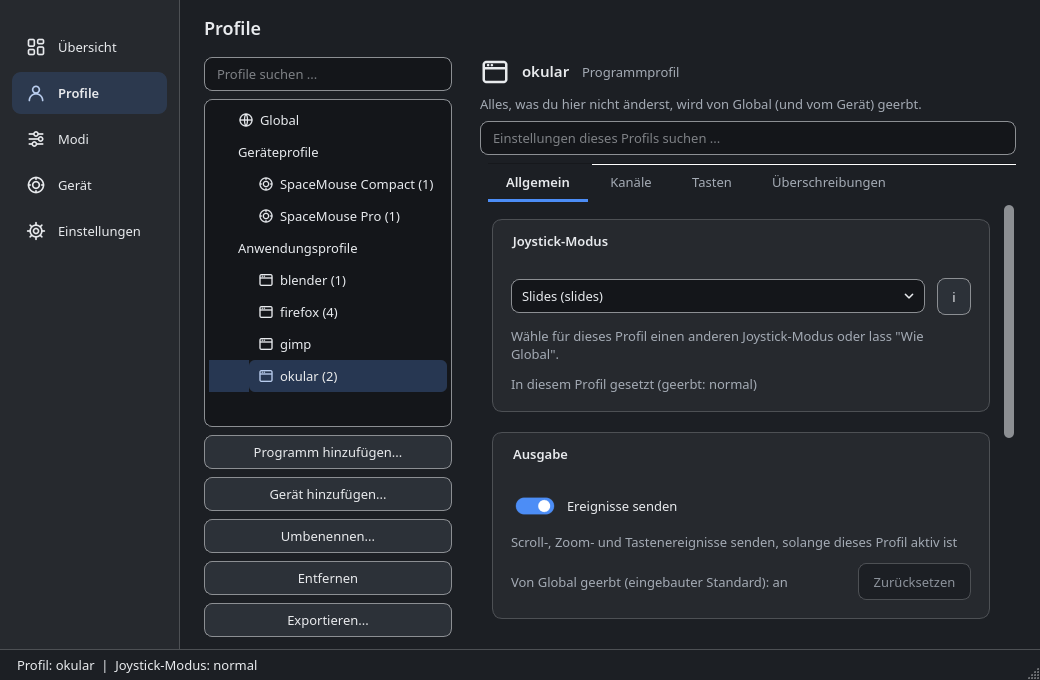
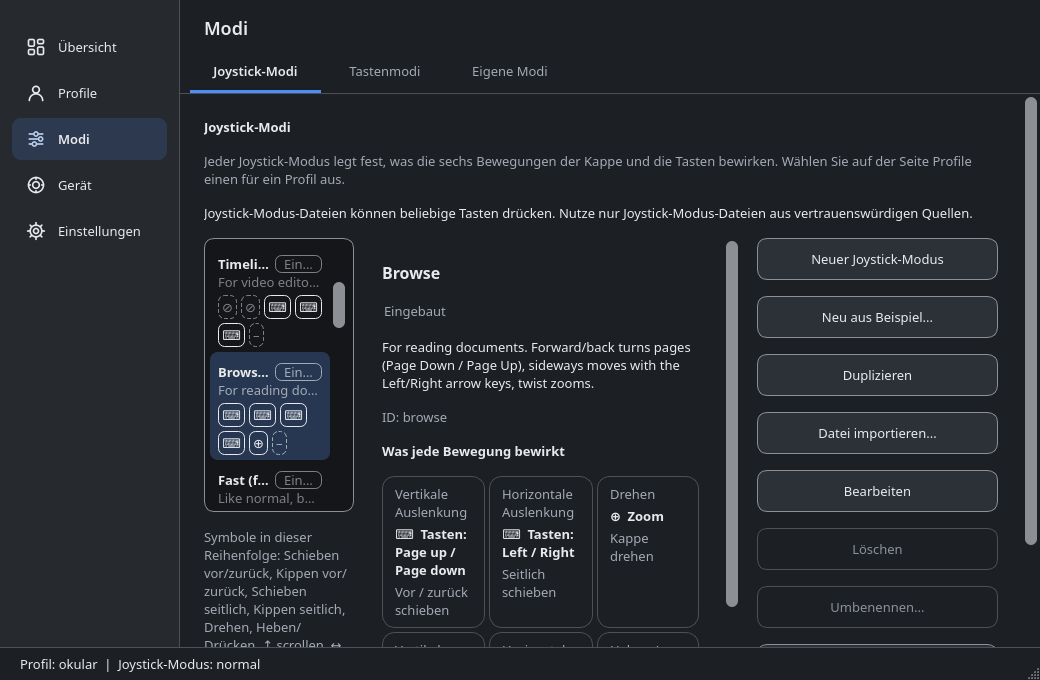
Release 1.1.2: version, release notes, new website screenshots (the Joystick modes page is the main picture), compact symbol chips in the mode list

diff --git a/site/de/index.html b/site/de/index.html
@@ -31,7 +31,7 @@
 <link rel="icon" type="image/png" sizes="32x32" href="../favicon-32.png">
 <link rel="apple-touch-icon" href="../apple-touch-icon.png">
 <link rel="stylesheet" href="../style.css">
-<script type="application/ld+json">{"@context": "https://schema.org", "@type": "SoftwareApplication", "name": "dofscroll", "description": "Nutze eine 3Dconnexion SpaceMouse als Scrollrad und Zoomregler in jedem Programm: Browser, PDF-Reader, Karten. Frei und quelloffen für Linux, Windows und macOS.", "url": "https://hoze-lukas.github.io/dofScroll/de/", "inLanguage": "de", "operatingSystem": "Linux, Windows, macOS", "applicationCategory": "UtilitiesApplication", "license": "https://www.gnu.org/licenses/gpl-3.0.html", "softwareVersion": "1.1.1", "downloadUrl": "https://github.com/HoZe-Lukas/dofScroll/releases/latest", "screenshot": "https://hoze-lukas.github.io/dofScroll/img/de/ui-window-light.png", "image": "https://hoze-lukas.github.io/dofScroll/img/og-de.png", "offers": {"@type": "Offer", "price": "0", "priceCurrency": "EUR"}}</script>
+<script type="application/ld+json">{"@context": "https://schema.org", "@type": "SoftwareApplication", "name": "dofscroll", "description": "Nutze eine 3Dconnexion SpaceMouse als Scrollrad und Zoomregler in jedem Programm: Browser, PDF-Reader, Karten. Frei und quelloffen für Linux, Windows und macOS.", "url": "https://hoze-lukas.github.io/dofScroll/de/", "inLanguage": "de", "operatingSystem": "Linux, Windows, macOS", "applicationCategory": "UtilitiesApplication", "license": "https://www.gnu.org/licenses/gpl-3.0.html", "softwareVersion": "1.1.2", "downloadUrl": "https://github.com/HoZe-Lukas/dofScroll/releases/latest", "screenshot": "https://hoze-lukas.github.io/dofScroll/img/de/ui-window-light.png", "image": "https://hoze-lukas.github.io/dofScroll/img/og-de.png", "offers": {"@type": "Offer", "price": "0", "priceCurrency": "EUR"}}</script>
 </head>
 <body>
 <a class="skip" href="#main">Zum Inhalt springen</a>
@@ -65,7 +65,7 @@
 <p class="note">Getestet unter RHEL 9, noch nicht unter Windows und macOS: <a href="#status">zum Stand</a>.</p>
 </div>
 <div class="hero-visual"><div class="stack">
-<img class="shot-light main" src="../img/de/ui-window-light.png" width="1040" height="680" alt="Das dofscroll-Einstellungsfenster: der Profil-Editor für okular mit dem Joystick-Modus Slides, links die Programmprofile"><img class="shot-dark main" src="../img/de/ui-window-dark.png" width="1040" height="680" alt="Das dofscroll-Einstellungsfenster: der Profil-Editor für okular mit dem Joystick-Modus Slides, links die Programmprofile">
+<img class="shot-light main" src="../img/de/ui-window-light.png" width="1040" height="680" alt="Das dofscroll-Einstellungsfenster: die Seite Joystick-Modi mit sechs Symbolen je Modus und, für den gewählten, was Schieben, Kippen und Drehen tun"><img class="shot-dark main" src="../img/de/ui-window-dark.png" width="1040" height="680" alt="Das dofscroll-Einstellungsfenster: die Seite Joystick-Modi mit sechs Symbolen je Modus und, für den gewählten, was Schieben, Kippen und Drehen tun">
 <img class="shot-light side" src="../img/de/ui-overview-light.png" width="720" height="470" alt="Die dofscroll-Übersicht: Daemon läuft, Gerät SpaceMouse Pro verbunden"><img class="shot-dark side" src="../img/de/ui-overview-dark.png" width="720" height="470" alt="Die dofscroll-Übersicht: Daemon läuft, Gerät SpaceMouse Pro verbunden">
 </div></div>
 </div>
@@ -90,7 +90,7 @@
 <li class="card"><svg class="ico" viewBox="0 0 24 24" aria-hidden="true" focusable="false"><path d="M12 3v18M7 8l5-5 5 5M7 16l5 5 5-5"/></svg><h3>Überall scrollen und zoomen</h3><p>Browser, PDFs, Dokumente und Karten: schieben zum Scrollen, drehen zum Zoomen.</p></li>
 <li class="card"><svg class="ico" viewBox="0 0 24 24" aria-hidden="true" focusable="false"><rect x="3" y="4" width="18" height="12" rx="2"/><path d="M8 20h8M12 16v4"/></svg><h3>Ein Profil pro Programm</h3><p>Sanftes Scrollen im Browser, Zeitleiste durchspulen im Videoschnitt. Auch pro Gerät.</p></li>
 <li class="card"><svg class="ico" viewBox="0 0 24 24" aria-hidden="true" focusable="false"><circle cx="8" cy="8" r="3"/><circle cx="16" cy="16" r="3"/><circle cx="16" cy="8" r="3"/><circle cx="8" cy="16" r="3"/></svg><h3>Tasten, die mehr können</h3><p>Modi wechseln, halten oder umschalten, oder eine Kombination wie Strg+0 senden, um den Zoom zurückzusetzen.</p></li>
-<li class="card"><svg class="ico" viewBox="0 0 24 24" aria-hidden="true" focusable="false"><rect x="3" y="3" width="7" height="7" rx="1.5"/><rect x="14" y="3" width="7" height="7" rx="1.5"/><rect x="3" y="14" width="7" height="7" rx="1.5"/><path d="M17.5 14v7M14 17.5h7"/></svg><h3>Fertige Modi</h3><p>Slides, Media, Map, Browse, Sheet, Photo, Timeline, Precision und mehr. Oder schreib deine eigenen.</p></li>
+<li class="card"><svg class="ico" viewBox="0 0 24 24" aria-hidden="true" focusable="false"><rect x="3" y="3" width="7" height="7" rx="1.5"/><rect x="14" y="3" width="7" height="7" rx="1.5"/><rect x="3" y="14" width="7" height="7" rx="1.5"/><path d="M17.5 14v7M14 17.5h7"/></svg><h3>Fertige Modi</h3><p>Slides, Media, Map, Browse, Sheet, Photo, Timeline, Precision und mehr. Jeder zeigt auf einen Blick, was Schieben, Kippen und Drehen tun. Oder schreib deine eigenen.</p></li>
 </ul>
 </div>
 </section>

diff --git a/site/index.html b/site/index.html
@@ -31,7 +31,7 @@
 <link rel="icon" type="image/png" sizes="32x32" href="favicon-32.png">
 <link rel="apple-touch-icon" href="apple-touch-icon.png">
 <link rel="stylesheet" href="style.css">
-<script type="application/ld+json">{"@context": "https://schema.org", "@type": "SoftwareApplication", "name": "dofscroll", "description": "Use a 3Dconnexion SpaceMouse as a scroll wheel and zoom control in any program: browsers, PDF readers, maps. Free and open source for Linux, Windows and macOS.", "url": "https://hoze-lukas.github.io/dofScroll/", "inLanguage": "en", "operatingSystem": "Linux, Windows, macOS", "applicationCategory": "UtilitiesApplication", "license": "https://www.gnu.org/licenses/gpl-3.0.html", "softwareVersion": "1.1.1", "downloadUrl": "https://github.com/HoZe-Lukas/dofScroll/releases/latest", "screenshot": "https://hoze-lukas.github.io/dofScroll/img/ui-window-light.png", "image": "https://hoze-lukas.github.io/dofScroll/img/og.png", "offers": {"@type": "Offer", "price": "0", "priceCurrency": "EUR"}}</script>
+<script type="application/ld+json">{"@context": "https://schema.org", "@type": "SoftwareApplication", "name": "dofscroll", "description": "Use a 3Dconnexion SpaceMouse as a scroll wheel and zoom control in any program: browsers, PDF readers, maps. Free and open source for Linux, Windows and macOS.", "url": "https://hoze-lukas.github.io/dofScroll/", "inLanguage": "en", "operatingSystem": "Linux, Windows, macOS", "applicationCategory": "UtilitiesApplication", "license": "https://www.gnu.org/licenses/gpl-3.0.html", "softwareVersion": "1.1.2", "downloadUrl": "https://github.com/HoZe-Lukas/dofScroll/releases/latest", "screenshot": "https://hoze-lukas.github.io/dofScroll/img/ui-window-light.png", "image": "https://hoze-lukas.github.io/dofScroll/img/og.png", "offers": {"@type": "Offer", "price": "0", "priceCurrency": "EUR"}}</script>
 </head>
 <body>
 <a class="skip" href="#main">Skip to content</a>
@@ -65,7 +65,7 @@
 <p class="note">Tested on RHEL 9, not yet on Windows or macOS: <a href="#status">see status</a>.</p>
 </div>
 <div class="hero-visual"><div class="stack">
-<img class="shot-light main" src="img/ui-window-light.png" width="1040" height="680" alt="The dofscroll settings window: the profile editor for okular with the joystick mode Slides, program profiles listed on the left"><img class="shot-dark main" src="img/ui-window-dark.png" width="1040" height="680" alt="The dofscroll settings window: the profile editor for okular with the joystick mode Slides, program profiles listed on the left">
+<img class="shot-light main" src="img/ui-window-light.png" width="1040" height="680" alt="The dofscroll settings window: the Joystick modes page with six symbols per joystick mode and, for the selected one, what push, tilt and twist do"><img class="shot-dark main" src="img/ui-window-dark.png" width="1040" height="680" alt="The dofscroll settings window: the Joystick modes page with six symbols per joystick mode and, for the selected one, what push, tilt and twist do">
 <img class="shot-light side" src="img/ui-overview-light.png" width="720" height="470" alt="The dofscroll overview: daemon running, device SpaceMouse Pro connected"><img class="shot-dark side" src="img/ui-overview-dark.png" width="720" height="470" alt="The dofscroll overview: daemon running, device SpaceMouse Pro connected">
 </div></div>
 </div>
@@ -90,7 +90,7 @@
 <li class="card"><svg class="ico" viewBox="0 0 24 24" aria-hidden="true" focusable="false"><path d="M12 3v18M7 8l5-5 5 5M7 16l5 5 5-5"/></svg><h3>Scroll and zoom everywhere</h3><p>Browsers, PDFs, documents and maps: push to scroll, twist to zoom.</p></li>
 <li class="card"><svg class="ico" viewBox="0 0 24 24" aria-hidden="true" focusable="false"><rect x="3" y="4" width="18" height="12" rx="2"/><path d="M8 20h8M12 16v4"/></svg><h3>A profile per program</h3><p>Smooth scrolling in the browser, timeline scrubbing in the video editor. Also per device.</p></li>
 <li class="card"><svg class="ico" viewBox="0 0 24 24" aria-hidden="true" focusable="false"><circle cx="8" cy="8" r="3"/><circle cx="16" cy="16" r="3"/><circle cx="16" cy="8" r="3"/><circle cx="8" cy="16" r="3"/></svg><h3>Buttons that do more</h3><p>Switch modes, hold or toggle one, or send a combination such as Ctrl+0 to reset zoom.</p></li>
-<li class="card"><svg class="ico" viewBox="0 0 24 24" aria-hidden="true" focusable="false"><rect x="3" y="3" width="7" height="7" rx="1.5"/><rect x="14" y="3" width="7" height="7" rx="1.5"/><rect x="3" y="14" width="7" height="7" rx="1.5"/><path d="M17.5 14v7M14 17.5h7"/></svg><h3>Ready-made modes</h3><p>Slides, Media, Map, Browse, Sheet, Photo, Timeline, Precision and more. Or write your own.</p></li>
+<li class="card"><svg class="ico" viewBox="0 0 24 24" aria-hidden="true" focusable="false"><rect x="3" y="3" width="7" height="7" rx="1.5"/><rect x="14" y="3" width="7" height="7" rx="1.5"/><rect x="3" y="14" width="7" height="7" rx="1.5"/><path d="M17.5 14v7M14 17.5h7"/></svg><h3>Ready-made modes</h3><p>Slides, Media, Map, Browse, Sheet, Photo, Timeline, Precision and more. Each shows at a glance what push, tilt and twist do. Or write your own.</p></li>
 </ul>
 </div>
 </section>

diff --git a/src/ui/qt/motion_view.hpp b/src/ui/qt/motion_view.hpp
@@ -53,8 +53,9 @@ inline int chipPadX(const QFontMetrics &fm) { return fm.height() / 2; }
 inline int chipHeight(const QFontMetrics &fm) { return fm.height() + 2 * std::max(2, fm.height() / 6); }
 
 // Flows the chips left to right and wraps to the next row at `width`; a chip never gets wider than `width`.
-inline ChipLayout layoutChips(const QFontMetrics &fm, const QList<Chip> &chips, int width) {
-    const int px = chipPadX(fm), gap = chipGap(fm), ch = chipHeight(fm);
+// padX < 0: the normal inset; a smaller one (a symbol-only chip in a list row) keeps six chips in one row.
+inline ChipLayout layoutChips(const QFontMetrics &fm, const QList<Chip> &chips, int width, int padX = -1) {
+    const int px = padX >= 0 ? padX : chipPadX(fm), gap = chipGap(fm), ch = chipHeight(fm);
     ChipLayout l;
     int x = 0, y = 0;
     for (const Chip &c : chips) {
@@ -72,10 +73,10 @@ inline ChipLayout layoutChips(const QFontMetrics &fm, const QList<Chip> &chips, 
 
 // Draws the chips laid out by layoutChips at `origin`. `textColor` for active chips, `mutedColor` for muted ones.
 inline void paintChips(QPainter *p, const QFontMetrics &fm, const QList<Chip> &chips, const ChipLayout &layout, const QPoint &origin,
-                       const QColor &textColor, const QColor &mutedColor) {
+                       const QColor &textColor, const QColor &mutedColor, int padX = -1) {
     p->save();
     p->setRenderHint(QPainter::Antialiasing, true);
-    const int px = chipPadX(fm);
+    const int px = padX >= 0 ? padX : chipPadX(fm);
     for (int i = 0; i < chips.size() && i < layout.rects.size(); ++i) {
         const bool muted = chips[i].muted;
         const QRect r = layout.rects[i].translated(origin);

diff --git a/src/ui/qt/pages/modes_page.cpp b/src/ui/qt/pages/modes_page.cpp
@@ -70,7 +70,7 @@ public:
         initStyleOption(&opt, index);
         const QFontMetrics fm(opt.font);
         const int pad = spn::ui::tokens::kSpaceSm;
-        const motionview::ChipLayout chips = motionview::layoutChips(fm, chipsOf(index), textWidth(opt));
+        const motionview::ChipLayout chips = motionview::layoutChips(fm, chipsOf(index), textWidth(opt), compactPad(fm));
         int h = fm.height() + 2 * pad;
         if (!index.data(kRoleDescription).toString().isEmpty()) h += fm.height();
         h += chips.height + (chips.height ? motionview::chipGap(fm) : 0);
@@ -124,11 +124,14 @@ public:
         }
         y += motionview::chipGap(fm);
         const QList<motionview::Chip> chips = chipsOf(index);
-        motionview::paintChips(painter, fm, chips, motionview::layoutChips(fm, chips, width), QPoint(textRect.left(), y), nameColor, mutedColor);
+        motionview::paintChips(painter, fm, chips, motionview::layoutChips(fm, chips, width, compactPad(fm)), QPoint(textRect.left(), y), nameColor,
+                               mutedColor, compactPad(fm));
         painter->restore();
     }
 
 private:
+    // symbol-only chips: a small inset, so that the six of them fit one row of a narrow list
+    static int compactPad(const QFontMetrics &fm) { return std::max(3, fm.height() / 4); }
     // the six motion chips of the row (text in kRoleChips, '1' in kRoleMuted for a muted one)
     static QList<motionview::Chip> chipsOf(const QModelIndex &index) {
         QList<motionview::Chip> out;

diff --git a/src/ui/qt/main.cpp b/src/ui/qt/main.cpp
@@ -2736,6 +2736,11 @@ int main(int argc, char **argv) {
             if (ProfilesPage *pp = w.profilesPage()) pp->selectTab(QStringLiteral("general"));
             settle();
             if (w.grab().save(QString::fromUtf8(screenshotDir) + QStringLiteral("/site-profiles-%1.png").arg(QString::fromLatin1(th)))) ++written;
+            w.resize(1040, 680);  // the Joystick modes page: six motions per mode at a glance
+            w.showPage(QStringLiteral("modes"));
+            if (auto *mp = qobject_cast<ModesPage *>(w.currentPage())) mp->selectMode(QStringLiteral("browse"));
+            settle();
+            if (w.grab().save(QString::fromUtf8(screenshotDir) + QStringLiteral("/site-modes-%1.png").arg(QString::fromLatin1(th)))) ++written;
             w.resize(720, 470);
             w.showPage(QStringLiteral("overview"));
             refreshDemoStatus("okular");

diff --git a/scripts/check-site.py b/scripts/check-site.py
@@ -28,7 +28,7 @@ from urllib.parse import urldefrag, urlparse
 BASE = "https://hoze-lukas.github.io/dofScroll/"
 VOID = {"meta", "link", "img", "br", "hr", "input", "source", "area", "base", "col", "wbr"}
 LANGS = {"en": "", "de": "de"}
-BUDGET_LANG = 340 * 1024      # shared files + that language's files
+BUDGET_LANG = 352 * 1024      # shared files + that language's files (the main picture is the Joystick modes page, about 10 KB more than the old profile editor)
 BUDGET_TOTAL = 440 * 1024     # whole site folder
 
 errors = []

diff --git a/docs/release-notes-1.1.2.md b/docs/release-notes-1.1.2.md
@@ -1,0 +1,69 @@
+<!-- SPDX-License-Identifier: GPL-3.0-or-later -->
+<!-- SPDX-FileCopyrightText: 2026 Lukas Hois-Zelinka -->
+# dofscroll 1.1.2
+
+> **Tested extensively only on RHEL 9** (X11, KDE Plasma, SpaceMouse Pro and Compact). Other Linux
+> distributions were install-tested in CI containers. The **Windows and macOS builds are built and
+> unit-tested by CI but have never been run with a real device.**
+
+Release after [1.1.1](release-notes-1.1.1.md), mostly about the interface: you now see at a glance what a joystick
+mode does, the pages look and read the same, and the built-in modes explain themselves. The daemon, the command
+line and the configuration format do not change.
+
+## What changed
+
+### What each joystick mode does, at a glance (#161)
+
+- **The six motions.** Every joystick mode is described by what each motion of the cap does: vertical push, vertical
+  tilt, horizontal push, horizontal tilt, twist, and lift / press (push down or pull up from the top, used only through a
+  channel mix, so the built-in modes say "Not used"). The Joystick modes list shows six symbols per mode in a fixed
+  order (a dashed symbol means off or not used); the detail view shows six cards with the words and how the cap moves.
+- **One look everywhere.** The same component shows the assignment on the Joystick modes page, in the profile's General
+  tab ("What this profile does": the effective assignment, with where each value comes from: this profile, the
+  joystick mode, or inherited), on the Overview cards and in the info popover. Buttons appear as numbered chips such as
+  "1 Space" or "15 Navigation", on the Button modes page and next to every drop-down on the Buttons tab. A muted or
+  dashed chip always carries its word, never colour alone.
+- View only: the file format, the loader and the daemon are unchanged.
+
+### Clearer built-in modes (#163, #157)
+
+- **Descriptions in plain words** for all 14 built-in joystick modes and the 5 built-in button modes: what the mode
+  does and for which program it is meant (for example "Navigation makes the cap work like arrow keys: push or tilt
+  presses Up, Down, Left or Right instead of scrolling ..."). A test keeps every description between 60 and 256 bytes.
+- **The docs and the wiki describe every built-in joystick mode by its six motions**, in one table, and a test
+  (`tests/test_docs_motions.sh`) fails when the table no longer matches the mode files. Two wrong statements were
+  corrected (the built-in `timeline` has no button bindings; `fast` is built in).
+
+### Choose what Next and Previous joystick mode go through (#165)
+
+On the Button modes page, the actions Next and Previous joystick mode have a "Cycle through" section: all joystick
+modes (alphabetical) or only the ticked ones, in a numbered order with Move up and Move down. A mode that is in the
+file but not loaded is shown as missing and kept. Before, this list (`CYCLE`) could only be edited in the file.
+Fixed on the way: an editable copy of a built-in button mode lost its cycle list.
+
+### Profiles (#153)
+
+The output switch is the first box of a profile's General tab. With the output off, a profile sends nothing, so
+the joystick mode, the buttons and the channel settings are hidden (the Channels, Buttons and Overrides tabs too)
+until you switch it on again. To switch only the axes off and keep the buttons, choose the joystick mode "off" and leave the
+output on (now covered by a test).
+
+### User modes (#155, #159)
+
+- The page that lists your joystick mode and button mode files is called **User modes** (it was "Extensions").
+- Files that an older version copied into your modes folder on its first start are recognised: all historical texts
+  of those examples are known now (several per mode), the loader ignores each of them, and the page marks such a file
+  as a copy of a shipped example that is not used. Before, an old `timeline.conf` replaced the built-in `timeline`
+  with button bindings you never wrote. A copy you edited still counts as your own file.
+
+### Website and wiki
+
+New screenshots of the interface (English and German), the wiki page "User interface" describes every page and what
+you can do with it, task by task, and the website has one download button instead of three that led to the same page.
+
+## Not verified
+
+The interface changes were built and self-tested offscreen on Linux with Qt 6.9.3 and by CI on Windows and macOS; they
+were not looked at on a real desktop. The look (symbols in the real fonts of Windows and macOS, wrapping, sizes) needs a
+human on each system. Several SpaceMice, the tray after a real KDE login and the new modes in real programs are still
+unverified on hardware (see the open issues).

diff --git a/docs/installation.md b/docs/installation.md
@@ -27,16 +27,16 @@ A release is created by the GitHub Actions workflow when a tag `v<version>` is p
 ### Assets
 
 The names come from the CPack configuration (`packaging/cpack/DofscrollCPack.cmake`) for
-version `1.1.1`. Replace the version with the one you download.
+version `1.1.2`. Replace the version with the one you download.
 
 | Asset | Meaning |
 |---|---|
-| `dofscroll-1.1.1-Linux.tar.gz` | TGZ archive, checked. Any Linux, install by hand. |
-| `dofscroll-1.1.1-1.x86_64.rpm` | RPM for the RHEL family (built on Rocky Linux 9). Name pattern from CPack `RPM-DEFAULT`, unverified. |
-| `dofscroll_1.1.1_amd64.deb` | DEB for the Debian family (built on Debian 12). Name pattern from CPack `DEB-DEFAULT`, unverified. |
-| `dofscroll-1.1.1-windows-x64-setup.exe` | Windows per-user installer (unsigned), see section 5. |
-| `dofscroll-1.1.1-windows-x64-portable.zip` | Windows portable folder, no installer. |
-| `dofscroll-1.1.1-macos-arm64.dmg` | macOS disk image for Apple silicon (ad-hoc signed, not notarized), see section 5. |
+| `dofscroll-1.1.2-Linux.tar.gz` | TGZ archive, checked. Any Linux, install by hand. |
+| `dofscroll-1.1.2-1.x86_64.rpm` | RPM for the RHEL family (built on Rocky Linux 9). Name pattern from CPack `RPM-DEFAULT`, unverified. |
+| `dofscroll_1.1.2_amd64.deb` | DEB for the Debian family (built on Debian 12). Name pattern from CPack `DEB-DEFAULT`, unverified. |
+| `dofscroll-1.1.2-windows-x64-setup.exe` | Windows per-user installer (unsigned), see section 5. |
+| `dofscroll-1.1.2-windows-x64-portable.zip` | Windows portable folder, no installer. |
+| `dofscroll-1.1.2-macos-arm64.dmg` | macOS disk image for Apple silicon (ad-hoc signed, not notarized), see section 5. |
 | `SHA256SUMS.txt` | SHA-256 checksums of all other assets. |
 
 If Qt was not available when a Windows or macOS package was built, its name contains
@@ -58,7 +58,7 @@ do not protect against a compromised release.
 EPEL first:
 
     sudo dnf install -y epel-release
-    sudo dnf install ./dofscroll-1.1.1-1.x86_64.rpm
+    sudo dnf install ./dofscroll-1.1.2-1.x86_64.rpm
 
 The package declares the dependency `spacenavd` (CPack setting `CPACK_RPM_PACKAGE_REQUIRES`).
 The shared libraries (`libspnav`, X11) are added by rpmbuild's automatic
@@ -66,7 +66,7 @@ dependency detection (unverified). `dnf` installs what is missing.
 
 ### DEB (Debian, Ubuntu family)
 
-    sudo apt install ./dofscroll_1.1.1_amd64.deb
+    sudo apt install ./dofscroll_1.1.2_amd64.deb
 
 The package declares the dependency `spacenavd` (`CPACK_DEBIAN_PACKAGE_DEPENDS`). Library
 dependencies are generated by `dpkg-shlibdeps` (`CPACK_DEBIAN_PACKAGE_SHLIBDEPS`). Whether `spacenavd` exists in your release's
@@ -98,11 +98,11 @@ of `linux-packages-dry-run` for the current result before relying on one of them
 
 ### TGZ
 
-The archive has the top directory `dofscroll-1.1.1-Linux/` and contains a tree rooted at `usr/`.
+The archive has the top directory `dofscroll-1.1.2-Linux/` and contains a tree rooted at `usr/`.
 Extract it and copy it into `/usr` (or another prefix):
 
-    tar xzf dofscroll-1.1.1-Linux.tar.gz
-    sudo cp -a dofscroll-1.1.1-Linux/usr/. /usr/
+    tar xzf dofscroll-1.1.2-Linux.tar.gz
+    sudo cp -a dofscroll-1.1.2-Linux/usr/. /usr/
 
 You must install the dependencies yourself (see [section 4](#4-build-from-source) for the
 package names; the run-time packages are the non-`-devel` ones).

diff --git a/readme.md b/readme.md
@@ -44,7 +44,7 @@ dofscroll complements the vendor driver instead of duplicating it: a button mapp
 
 ## Status and testing
 
-Current stable version: **1.1.1**. Tested extensively only on RHEL 9 (X11, KDE Plasma, SpaceMouse Pro and Compact).
+Current stable version: **1.1.2**. Tested extensively only on RHEL 9 (X11, KDE Plasma, SpaceMouse Pro and Compact).
 Other Linux distributions were install-tested in CI containers; the Windows and macOS builds are built and
 unit-tested by CI but have never been run with a real device.
 
@@ -85,7 +85,7 @@ Automated tests (CI) run on Linux, Windows and macOS runners; they cover logic, 
   (Windows, macOS); the factory button count is known for SpaceMouse Pro, Pro Wireless, Compact,
   Wireless, Enterprise and SpaceNavigator.
 
-Release notes: [docs/release-notes-1.1.1.md](docs/release-notes-1.1.1.md) (and [1.1.0](docs/release-notes-1.1.0.md), [1.0.0](docs/release-notes-1.0.0.md), [beta.2](docs/release-notes-0.1.0-beta.2.md), [beta.1](docs/release-notes-0.1.0-beta.1.md)).
+Release notes: [docs/release-notes-1.1.2.md](docs/release-notes-1.1.2.md) (and [1.1.1](docs/release-notes-1.1.1.md), [1.1.0](docs/release-notes-1.1.0.md), [1.0.0](docs/release-notes-1.0.0.md), [beta.2](docs/release-notes-0.1.0-beta.2.md), [beta.1](docs/release-notes-0.1.0-beta.1.md)).
 
 ## Download and install
 
@@ -129,7 +129,7 @@ If nothing happens, see [docs/troubleshooting.md](docs/troubleshooting.md).
 | [docs/security.md](docs/security.md) | Threat model, systemd hardening, uinput permissions, loading the driver interface |
 | [docs/legal-notes.md](docs/legal-notes.md) | What dofscroll uses of the 3Dconnexion driver, what it does not ship, where the rights lie |
 | [docs/releasing.md](docs/releasing.md) | How a release is made |
-| [docs/release-notes-1.1.1.md](docs/release-notes-1.1.1.md) | Release notes of 1.1.1; 1.1.0 in [docs/release-notes-1.1.0.md](docs/release-notes-1.1.0.md), 1.0.0 in [docs/release-notes-1.0.0.md](docs/release-notes-1.0.0.md), 0.1.1 in [docs/release-notes-0.1.1.md](docs/release-notes-0.1.1.md), beta.2 in [docs/release-notes-0.1.0-beta.2.md](docs/release-notes-0.1.0-beta.2.md), beta.1 notes in [docs/release-notes-0.1.0-beta.1.md](docs/release-notes-0.1.0-beta.1.md) |
+| [docs/release-notes-1.1.2.md](docs/release-notes-1.1.2.md) | Release notes of 1.1.2; 1.1.1 in [docs/release-notes-1.1.1.md](docs/release-notes-1.1.1.md), 1.1.0 in [docs/release-notes-1.1.0.md](docs/release-notes-1.1.0.md), 1.0.0 in [docs/release-notes-1.0.0.md](docs/release-notes-1.0.0.md), 0.1.1 in [docs/release-notes-0.1.1.md](docs/release-notes-0.1.1.md), beta.2 in [docs/release-notes-0.1.0-beta.2.md](docs/release-notes-0.1.0-beta.2.md), beta.1 notes in [docs/release-notes-0.1.0-beta.1.md](docs/release-notes-0.1.0-beta.1.md) |
 | [docs/work-plan.md](docs/work-plan.md) | Roadmap and the Windows/macOS ports |
 | [CONTRIBUTING.md](CONTRIBUTING.md) | Build, test, pull requests, adding a joystick mode or language |
 

diff --git a/docs/wiki/Release-notes.md b/docs/wiki/Release-notes.md
@@ -6,6 +6,10 @@ Design principle: dofscroll complements the vendor driver instead of duplicating
 
 Releases and their generated notes: https://github.com/HoZe-Lukas/dofScroll/releases. Versions `0.x` are marked pre-release.
 
+## 1.1.2
+
+Interface release. A joystick mode shows what each of the six motions of the cap does (vertical push, vertical tilt, horizontal push, horizontal tilt, twist, lift / press) as six symbols in the list and six cards in the detail view, and the same look is used on the Joystick modes page, in the profile's General tab, on the Overview cards, on the Button modes page and on the Buttons tab. The built-in joystick modes and button modes explain themselves in plain words, you can choose which joystick modes Next and Previous joystick mode go through, the output switch is the first box of a profile, and the "Extensions" page is called "User modes" (and recognises files that older versions copied). Full notes: [docs/release-notes-1.1.2.md](https://github.com/HoZe-Lukas/dofScroll/blob/main/docs/release-notes-1.1.2.md).
+
 ## 1.1.1
 
 Fix release for 1.1.0: upgrading the RPM or DEB now restarts the daemon and the interface also for domain accounts (user names with an `@`) and for an interface that the desktop's session restore started; in 1.1.0 both kept running the old program after `dnf install` for such users. Full notes: [docs/release-notes-1.1.1.md](https://github.com/HoZe-Lukas/dofScroll/blob/main/docs/release-notes-1.1.1.md).

diff --git a/docs/wiki/Home.md b/docs/wiki/Home.md
@@ -6,7 +6,7 @@ dofscroll turns a 6DoF 3D mouse such as the 3Dconnexion SpaceMouse into smooth s
 
 dofscroll complements the vendor driver instead of duplicating it: a button mapping that is the same everywhere and always (for example a button that sends Esc) is configured in the driver (spacenavd's spnavrc on Linux, the 3Dconnexion driver on Windows and macOS); dofscroll's own button actions are for bindings that depend on dofscroll's state: they apply only in a joystick mode or profile, switch or toggle joystick modes and behavior, or work together with the axis handling; dofscroll also handles what the driver does not: shaping scroll and zoom from the six axes, keys derived from axes, and per-program and per-device profiles. See [Buttons](Buttons).
 
-**Status: version 1.1.1.** Tested extensively only on RHEL 9 (X11, KDE Plasma, SpaceMouse Pro and Compact). Other Linux distributions were install-tested in CI containers; the Windows and macOS builds are built and unit-tested by CI but have never been run with a real device.
+**Status: version 1.1.2.** Tested extensively only on RHEL 9 (X11, KDE Plasma, SpaceMouse Pro and Compact). Other Linux distributions were install-tested in CI containers; the Windows and macOS builds are built and unit-tested by CI but have never been run with a real device.
 
 ## Tested on
 
